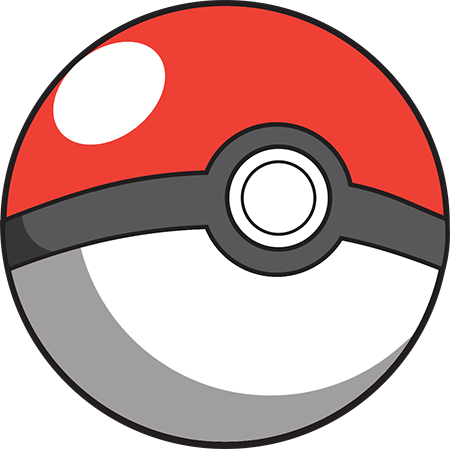
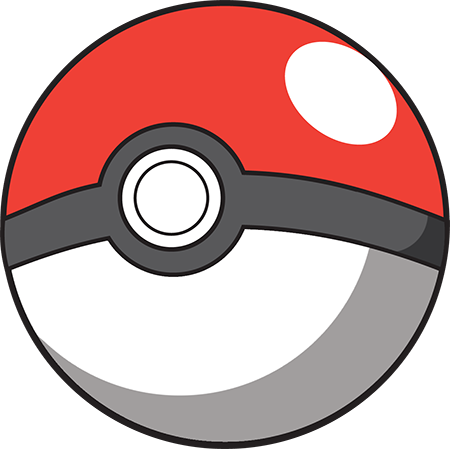
Adds style to message of no comments.

diff --git a/client/assets/styles/app.scss b/client/assets/styles/app.scss
@@ -71,7 +71,7 @@ ul {
 }
 
 .wrapper {
-  background: url('/assets/images/pokebola-450x450.png') no-repeat -150px 170% fixed;
+  background: url('/assets/images/pokebola-450x450.png') no-repeat 120% 150% fixed;
   padding-bottom: 60px;
 }
 

diff --git a/client/assets/styles/_comments.scss b/client/assets/styles/_comments.scss
@@ -27,6 +27,12 @@
 .comments-list__item {
   @extend %white-box;
   border-bottom: 1px solid $gray-light;
+
+  &.is-empty {
+    background: rgba($white, 0.7);
+    color: $yellow-dark;
+    font-size: 1.2em;
+  }
 }
 
 .user-avatar {
